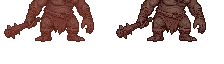
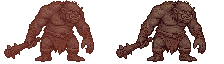
v4.0 — Trolün üst yarısı kırpılıyordu
sprite() içinde çapa hücredeki zemin çizgisinin satırını belirliyor (satır =
2*çapa). Düşmanlarda çapa 21'di, yani bir düşman sprite'ı en fazla 42 satır
yüksek olabiliyordu; trolün sanatı 62 satır olduğu için üst 20 satırı —
başı ve omuzları — kırpılıyordu. Küçük yaratıklarda (20-30 satır) sorun
görünmüyordu çünkü sınırın altındalar.

Çapa artık sprite()'a parametre olarak geçilebiliyor; trol 31 kullanıyor
(karakterlerle aynı) ve tam görünüyor. yaratik_kur.py'deki oturtma tablosu da
aynı değere çekildi — ikisi ayrışırsa sprite gölgesinden kopuyor.

Döndürme merkezi de artık bu çapadan hesaplanıyor; daha önce ayrı bir sabit
okuyordu ve büyük düşmanlarda yanlış merkez etrafında dönerdi.

diff --git a/lib/game/engine.ts b/lib/game/engine.ts
@@ -293,6 +293,8 @@ if(!walkable(this.world,s.x,s.y)){[s.x,s.y]=this.world.spawn;}this.camera={x:s.x
  static readonly GOLGE:Record<number,number>={1:9,2:8,4:8,5:11,6:8,7:18};
  /** Hucre eni (dunya birimi). Trol sopasiyla 64'e sigmiyordu, 112 px kullaniyor. */
  static readonly DUSMAN_EN:Record<number,number>={7:56};
+ /** Buyuk dusmanlarin capasi. Varsayilan 21 sprite'i 42 satira siniriyor. */
+ static readonly DUSMAN_CAPA:Record<number,number>={7:31};
  /** Ciz olcegi. Trol bir mini-patron: oyuncudan belirgin buyuk gorunmeli. */
  static readonly DUSMAN_OLCEK:Record<number,number>={7:1.7};
  static readonly CARP_MOB=14;
@@ -651,9 +653,12 @@ if(!walkable(this.world,s.x,s.y)){[s.x,s.y]=this.world.spawn;}this.camera={x:s.x
   }
   private trapActive(e:Entity){return (this.tick+e.x*.01)%3.3>2.1}
   private loop(time:number){const dt=Math.min(.035,(time-this.last)/1000||0);this.last=time;if(!this.paused&&this.ready)this.update(dt);this.render(time/1000);this.raf=requestAnimationFrame(this.loop)}
-  private sprite(key:string,x:number,y:number,frame=0,fw?:number,fh?:number,flip=false,scale=1,alpha=1,donder=0){const im=this.images[key];if(!im?.naturalWidth)return;const w=fw||im.width/R,h=fh||im.height/R;const count=Math.floor(im.width/(w*R));const c=this.ctx;c.save();c.globalAlpha=alpha;c.translate(Math.round(x),Math.round(y));/* Tepeden gorulen yaratiklar icin: yon ayri sheet degil DONDURME. Capa
+  private sprite(key:string,x:number,y:number,frame=0,fw?:number,fh?:number,flip=false,scale=1,alpha=1,donder=0,capa?:number){const im=this.images[key];if(!im?.naturalWidth)return;const w=fw||im.width/R,h=fh||im.height/R;const count=Math.floor(im.width/(w*R));const c=this.ctx;c.save();c.globalAlpha=alpha;c.translate(Math.round(x),Math.round(y));const actor=key.startsWith('characters')||key.startsWith('enemies');/* Capa hucre icinde zemin cizgisinin satirini belirliyor (satir = 2*capa).
+   Dusmanlarda 21 idi, yani sprite en fazla 42 satir yuksek olabiliyordu;
+   62 satirlik trolun ust yarisi kirpiliyordu. Buyuk dusmanlar kendi
+   capasini geciyor. */const anchor=capa??(actor?(key.startsWith('characters')?31:key.startsWith('enemies1')?22:21):h);/* Tepeden gorulen yaratiklar icin: yon ayri sheet degil DONDURME. Capa
    ayakta oldugu icin cizim dikdortgeninin MERKEZI etrafinda dondurulur,
-   yoksa yaratik ayaklarinin ucundan savruluyor. */if(donder){const anc=key.startsWith('enemies1')?22:21;const my=(-anc+h/2)*scale;c.translate(0,my);c.rotate(donder);c.translate(0,-my);}if(flip)c.scale(-1,1);const actor=key.startsWith('characters')||key.startsWith('enemies');const anchor=actor?(key.startsWith('characters')?31:key.startsWith('enemies1')?22:21):h;const top=actor?-anchor*scale:-h*scale+6;c.drawImage(im,(frame%count)*w*R,0,w*R,h*R,-w*scale/2,top,w*scale,h*scale);c.restore()}
+   yoksa yaratik ayaklarinin ucundan savruluyor. */if(donder){const my=(-anchor+h/2)*scale;c.translate(0,my);c.rotate(donder);c.translate(0,-my);}if(flip)c.scale(-1,1);const top=actor?-anchor*scale:-h*scale+6;c.drawImage(im,(frame%count)*w*R,0,w*R,h*R,-w*scale/2,top,w*scale,h*scale);c.restore()}
   /** Isim etiketi: kutu YOK (yuzleri kapatiyordu). Okunurluk icin metin once
   *  koyu renkte 1px kaydirilarak dort yone cizilir, uzerine asil renk gelir. */
   private label(text:string,x:number,y:number,color='#ffffff'){const c=this.ctx;
@@ -689,7 +694,7 @@ if(!walkable(this.world,s.x,s.y)){[s.x,s.y]=this.world.spawn;}this.camera={x:s.x
     const sy=this.sahneYuru.get(e.id);const g=this.gez.get(e.id);const yur=!!sy||(!!g&&g.bekle<=0&&Math.hypot(g.tx-e.x,g.ty-e.y)>1.5);const yd=sy?sy.dir:g?.dir??'D';const yf=sy?sy.flip:g?.flip??false;const yy=sy?sy.yol:(g?.yol||0);this.sprite(`characters${e.portrait}${yur?yd:'D'}${yur?'Walk':'Idle'}`,e.x,e.y,yur?Math.floor(yy/Engine.ADIM):Math.floor(time*5),32,32,yur&&yd==='S'&&yf,OL);const pending=bekleyen(this.state,e.id);/* Unlem isimle AYNI yukseklikte olmali: isim olcekle (e.s) yukseliyordu,
    unlem sabit -30'daydi, kucuk karakterlerde (Lin s=0.8) kayik duruyordu. */const etiketY=e.y-30*(e.s||1);const nw=this.label(e.name||'',e.x,etiketY);if(pending)this.label('!',e.x-nw/2-5,etiketY,'#e0453a');}
   }}));
-  for(const m of this.mobs)actors.push({y:m.y,draw:()=>{c.fillStyle='#04091270';c.beginPath();c.ellipse(m.x,m.y+1,(m.boss?13:Engine.GOLGE[m.kind]??8)*OYUNCU_OLCEK,2.6*OYUNCU_OLCEK,0,0,7);c.fill();if(m.windup>0){c.strokeStyle='#ef8766';c.lineWidth=1;c.beginPath();c.arc(m.x,m.y,m.boss?36:14,0,Math.PI*2);c.stroke();}const dx=this.state.x-m.x,dy=this.state.y-m.y;const eylem=m.windup>0?'Attack':m.hurt>0?'Hurt':'Walk';const ol=(m.boss?1.7:Engine.DUSMAN_OLCEK[m.kind]??1)*OYUNCU_OLCEK;const yar=Engine.YARATIK[m.kind];if(yar){/* Yaratiklarda yon ayri sheet degil; nasil gosterildigi YARATIK'ta yazili. */const bak=m.aci??Math.atan2(dy,dx);const anahtar=`enemies${m.kind}D${eylem}`;const kare=Math.floor(time*Engine.DUSMAN_FPS(eylem));if(yar.mod==='tam'){this.sprite(anahtar,m.x,m.y,kare,32,32,false,ol,1,bak-(yar.aci||0));}else if(yar.mod==='yan'){const sol=Math.cos(bak)<0;const egim=Math.max(-Engine.EGIM,Math.min(Engine.EGIM,Math.atan2(Math.sin(bak),Math.abs(Math.cos(bak)))));/* Aynalama dondurmeden SONRA uygulandigi icin egimin isareti ters cevrilir. */this.sprite(anahtar,m.x,m.y,kare,32,32,sol,ol,1,sol?-egim:egim);}else{this.sprite(anahtar,m.x,m.y,kare,Engine.DUSMAN_EN[m.kind]??32,32,yar.mod==='aynali'&&Math.cos(bak)<0,ol);}}else{const yatay=Math.abs(dx),dikey=Math.abs(dy);const dir=dikey>yatay*2.414?(dy<0?'U':'D'):yatay>dikey*2.414?'S':(dy<0?'US':'DS');this.sprite(this.dusmanPoz(m.kind,dir,eylem),m.x,m.y,Math.floor(time*Engine.DUSMAN_FPS(eylem)),32,32,dir!=='U'&&dir!=='D'&&dx<0,ol);}const yuzuk=this.state.equipment.ring;if(m.hp<m.max||m.boss||(yuzuk&&ITEMS[yuzuk].canGoster)){const w=m.boss?34:16;c.fillStyle='#190e18';c.fillRect(m.x-w/2,m.y-(m.boss?38:23),w,2);c.fillStyle='#ce7778';c.fillRect(m.x-w/2,m.y-(m.boss?38:23),w*m.hp/m.max,2);if(m.boss)this.label('KÜL BEKÇİSİ',m.x,m.y-43,'#efac8a');}}});
+  for(const m of this.mobs)actors.push({y:m.y,draw:()=>{c.fillStyle='#04091270';c.beginPath();c.ellipse(m.x,m.y+1,(m.boss?13:Engine.GOLGE[m.kind]??8)*OYUNCU_OLCEK,2.6*OYUNCU_OLCEK,0,0,7);c.fill();if(m.windup>0){c.strokeStyle='#ef8766';c.lineWidth=1;c.beginPath();c.arc(m.x,m.y,m.boss?36:14,0,Math.PI*2);c.stroke();}const dx=this.state.x-m.x,dy=this.state.y-m.y;const eylem=m.windup>0?'Attack':m.hurt>0?'Hurt':'Walk';const ol=(m.boss?1.7:Engine.DUSMAN_OLCEK[m.kind]??1)*OYUNCU_OLCEK;const yar=Engine.YARATIK[m.kind];if(yar){/* Yaratiklarda yon ayri sheet degil; nasil gosterildigi YARATIK'ta yazili. */const bak=m.aci??Math.atan2(dy,dx);const anahtar=`enemies${m.kind}D${eylem}`;const kare=Math.floor(time*Engine.DUSMAN_FPS(eylem));if(yar.mod==='tam'){this.sprite(anahtar,m.x,m.y,kare,32,32,false,ol,1,bak-(yar.aci||0));}else if(yar.mod==='yan'){const sol=Math.cos(bak)<0;const egim=Math.max(-Engine.EGIM,Math.min(Engine.EGIM,Math.atan2(Math.sin(bak),Math.abs(Math.cos(bak)))));/* Aynalama dondurmeden SONRA uygulandigi icin egimin isareti ters cevrilir. */this.sprite(anahtar,m.x,m.y,kare,32,32,sol,ol,1,sol?-egim:egim);}else{this.sprite(anahtar,m.x,m.y,kare,Engine.DUSMAN_EN[m.kind]??32,32,yar.mod==='aynali'&&Math.cos(bak)<0,ol,1,0,Engine.DUSMAN_CAPA[m.kind]);}}else{const yatay=Math.abs(dx),dikey=Math.abs(dy);const dir=dikey>yatay*2.414?(dy<0?'U':'D'):yatay>dikey*2.414?'S':(dy<0?'US':'DS');this.sprite(this.dusmanPoz(m.kind,dir,eylem),m.x,m.y,Math.floor(time*Engine.DUSMAN_FPS(eylem)),32,32,dir!=='U'&&dir!=='D'&&dx<0,ol);}const yuzuk=this.state.equipment.ring;if(m.hp<m.max||m.boss||(yuzuk&&ITEMS[yuzuk].canGoster)){const w=m.boss?34:16;c.fillStyle='#190e18';c.fillRect(m.x-w/2,m.y-(m.boss?38:23),w,2);c.fillStyle='#ce7778';c.fillRect(m.x-w/2,m.y-(m.boss?38:23),w*m.hp/m.max,2);if(m.boss)this.label('KÜL BEKÇİSİ',m.x,m.y-43,'#efac8a');}}});
    actors.push({y:this.state.y,draw:()=>{const s=this.state;c.fillStyle='#02081280';c.beginPath();c.ellipse(s.x,s.y+1,8.5*OYUNCU_OLCEK,2.8*OYUNCU_OLCEK,0,0,7);c.fill();const action=this.vurusPoz>0?'Attack':this.moving&&!this.paused?'Walk':'Idle';// Dusus: sprite kucule kucule asagi kayiyor, boslugun icine iniyormus gibi.
   // Dusus: kucuIme YOK, karakter bir anda kayboluyor.
   const dusuyor=this.dusus>0;

diff --git a/lib/game/data.ts b/lib/game/data.ts
@@ -1,6 +1,6 @@
 /** Oyun surumu. Her yayina cikan degisiklikte 0.1 artar: 0.1, 0.2 ... 0.9,
  *  sonra 1.0, 1.1 diye devam eder. Ekranin sol altinda gorunur. */
-export const SURUM = '3.9';
+export const SURUM = '4.0';
 /** Gelisim asamasi. Oyun oynanabilir ama icerik ve sistemler (item seti, dil
  *  secenegi, masaustu arayuzu) hala eksik - yani alfa. Beta'ya gecisi bu sabit
  *  tasir; surum numarasiyla ayri tutuldu ki 1.x sayimi bozulmasin. */

diff --git a/scripts/yaratik_kur.py b/scripts/yaratik_kur.py
@@ -41,7 +41,9 @@ def merkez(k):
 # ekranda `-capa + r*0.5` birime denk geliyor; golge (y=0) icin r = 2*capa.
 # Kareler hucre ORTASINA (32) oturtulunca yaratik golgesinin 7 birim ustunde
 # havada duruyordu - ekranda acikca ayriydi.
-CAPA = {1: 22, 2: 21, 5: 21, 7: 21}   # engine.sprite() ile ayni
+# engine.sprite() ile AYNI olmali. Trol buyuk oldugu icin 31: capa 21 iken
+# zemin cizgisi 42. satira denk geliyor ve 62 satirlik sprite'in ustu kirpiliyor.
+CAPA = {1: 22, 2: 21, 5: 21, 7: 31}
 # Yerden yukseklik (art satiri). Yarasa UCUYOR: golgesi altinda gorunmeli,
 # govdesi havada durmali. Yerdeki yaratiklarda 0, yani karin cizgisi zemine
 # oturur ve golgenin yalnizca kenari disari tasar.
